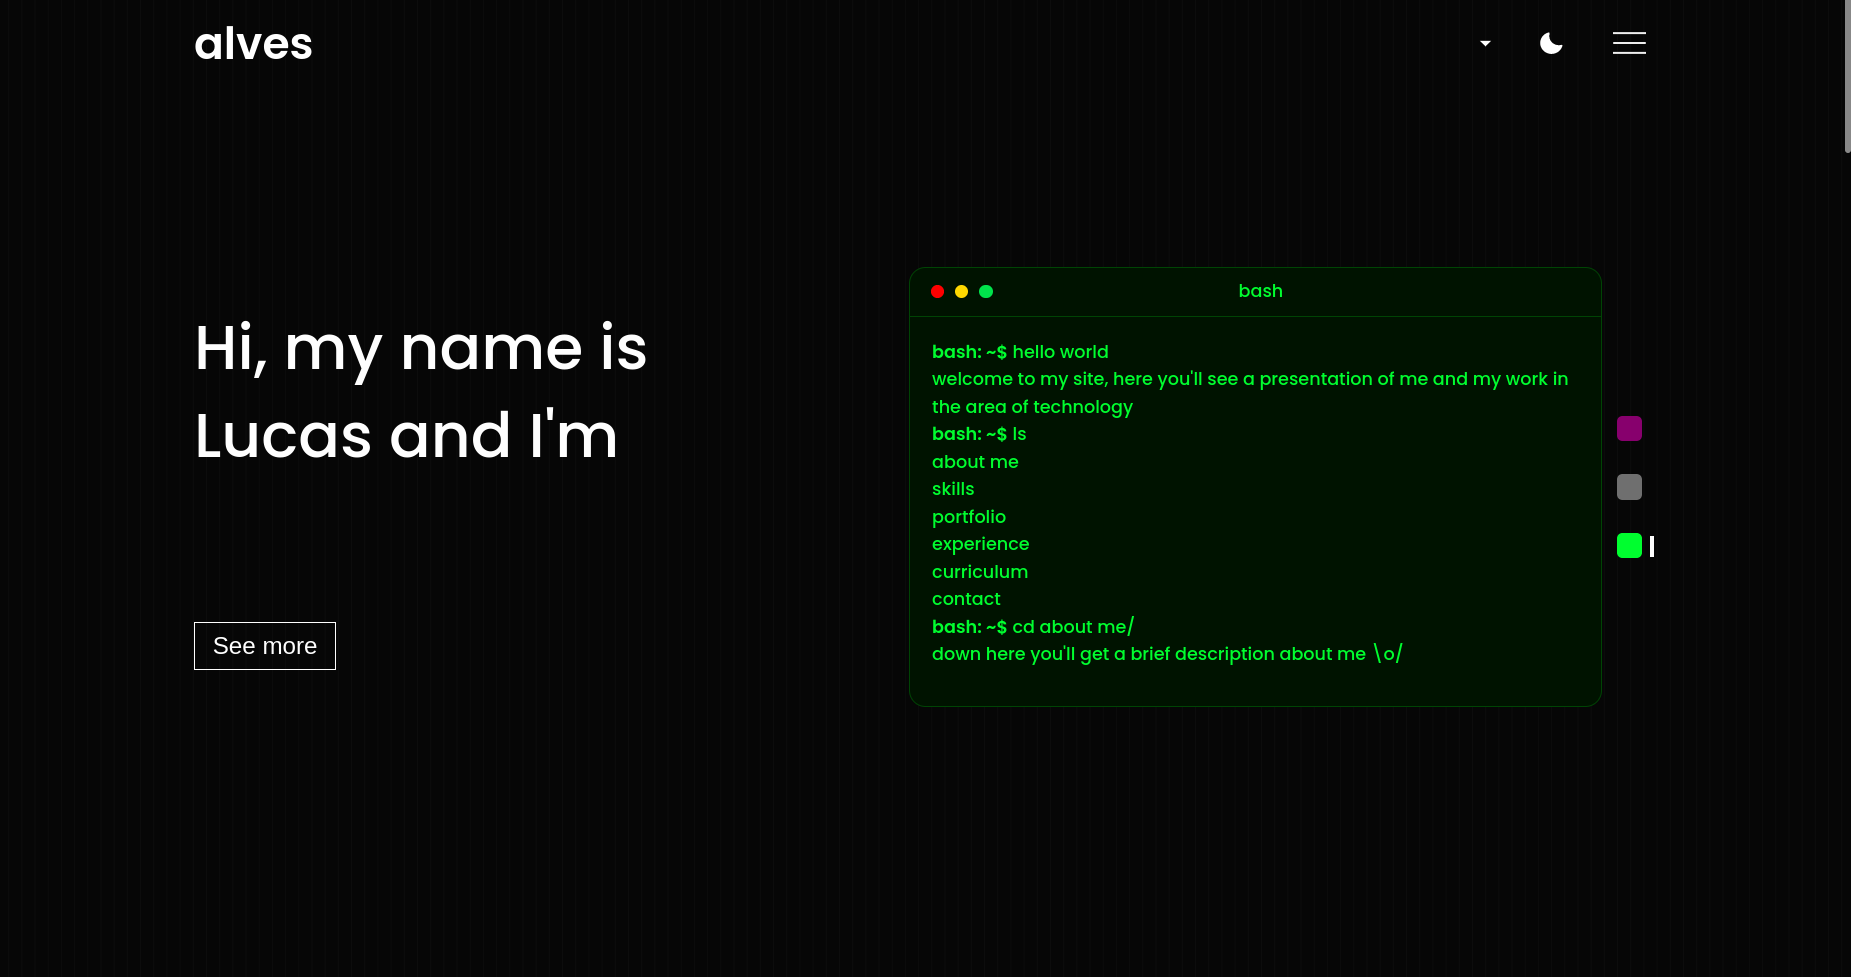
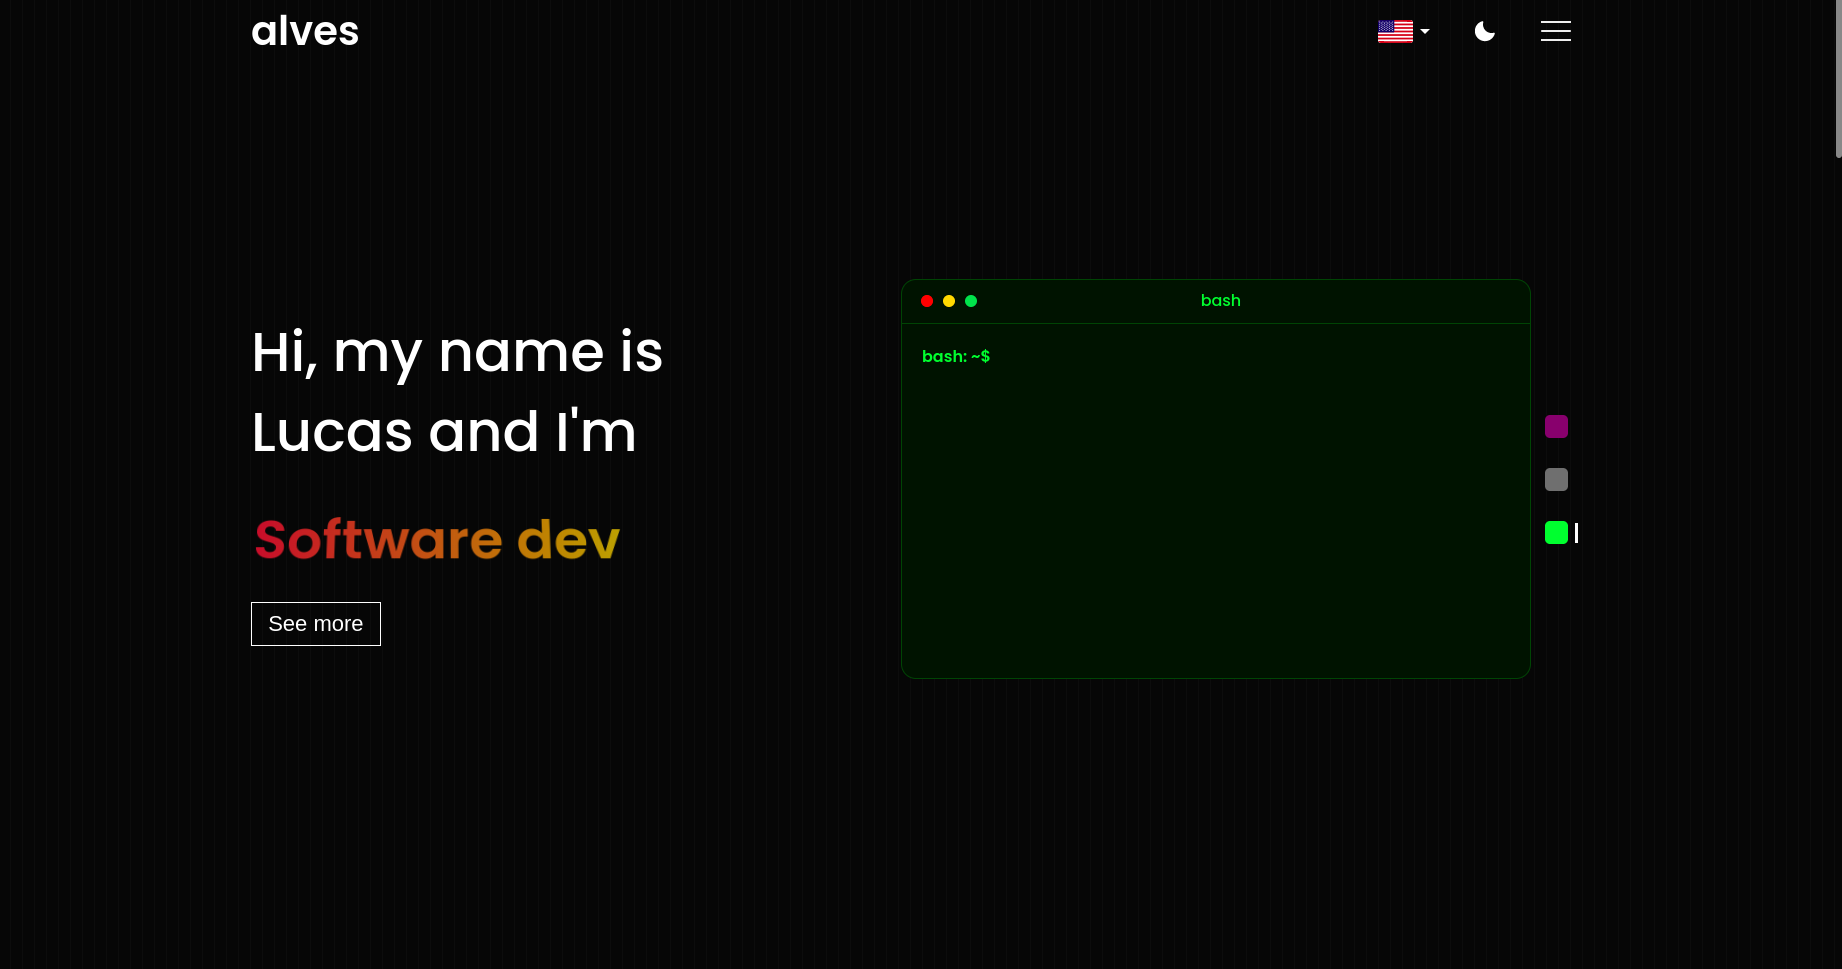
new titles

diff --git a/src/components/RotateTitle/style.scss b/src/components/RotateTitle/style.scss
@@ -42,7 +42,7 @@
     animation-delay: 1s;
 
     &:after {
-      content: 'frontend dev';
+      content: 'Python dev';
       animation: rotateAfter 40s infinite;
       animation-delay: 1s;
     }
@@ -122,43 +122,43 @@
 
 @keyframes rotateAfter {
   0% {
-    content: 'Fullstack dev';
+    content: 'Software dev';
   }
 
   5% {
-    content: 'Fullstack dev';
+    content: 'Software dev';
   }
 
   25% {
-    content: 'Fullstack dev';
+    content: 'Software dev';
   }
 
   30% {
-    content: 'Fullstack dev';
+    content: 'Software dev';
   }
 
   35% {
-    content: 'Backend dev';
+    content: 'Javascript dev';
   }
 
   50% {
-    content: 'Backend dev';
+    content: 'Javascript dev';
   }
 
   55% {
-    content: 'Backend dev';
+    content: 'Javascript dev';
   }
 
   60% {
-    content: 'Frontend dev';
+    content: 'Python dev';
   }
 
   75% {
-    content: 'Frontend dev';
+    content: 'Python dev';
   }
 
   80% {
-    content: 'Frontend dev';
+    content: 'Python dev';
   }
 
   85% {
